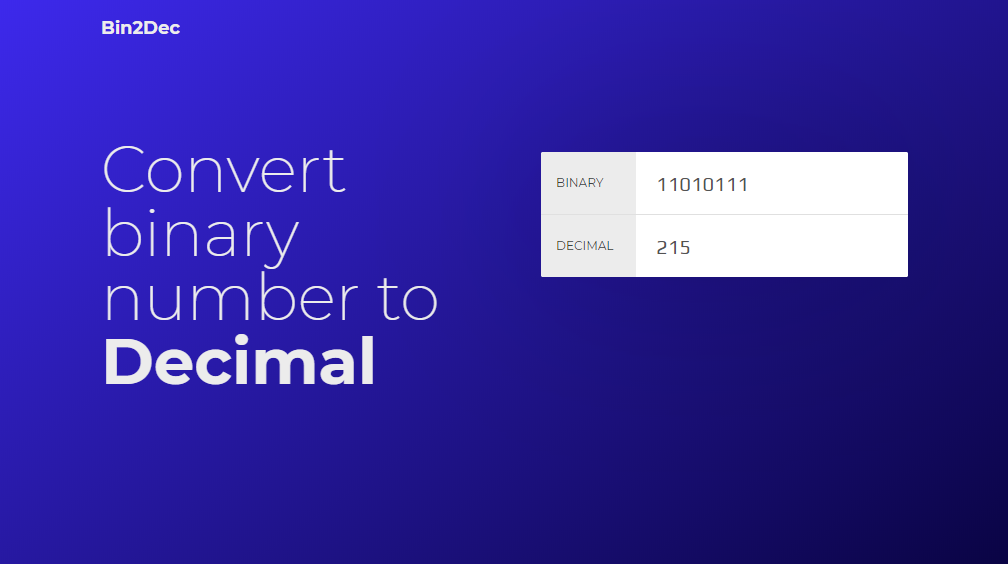
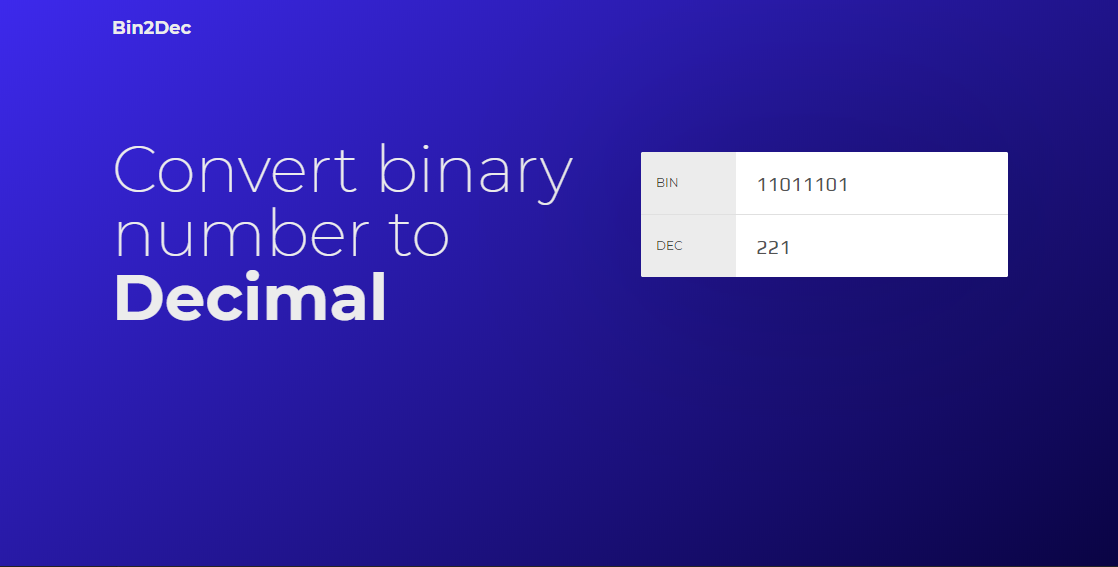
Adicionado arquivos de apresentação

diff --git a/README.md b/README.md
@@ -1,0 +1,9 @@
+# Bin2Dec
+
+Conversor de números binários para números decimais.
+
+Aplicação construida como sugestão do repositório app-ideas.
+
+<https://github.com/florinpop17/app-ideas>
+
+![Screenshot](Bin2Dec.gif)
